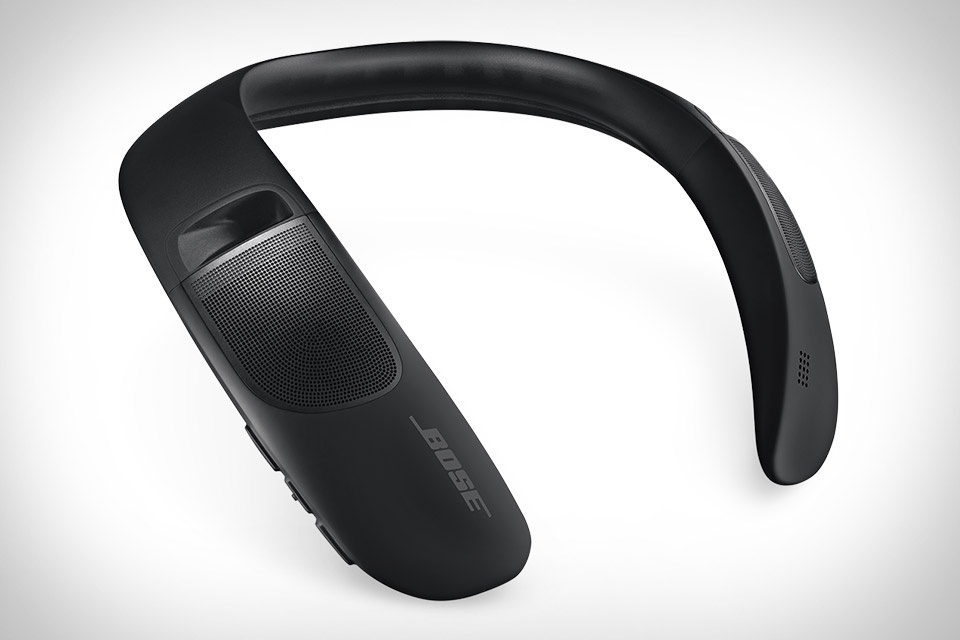
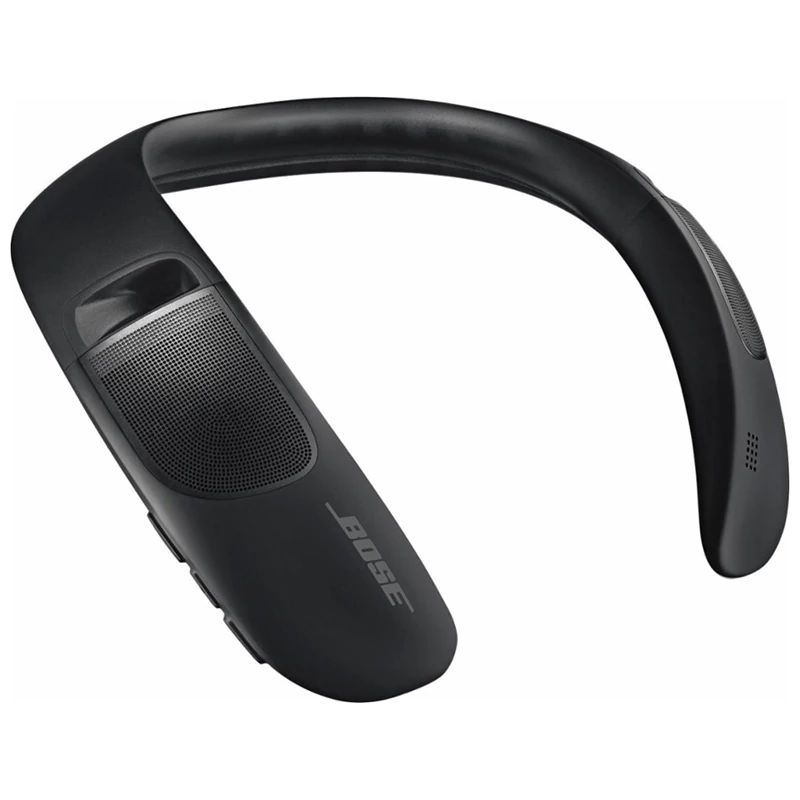
modified product images and seeds.sql

diff --git a/public/assets/css/style.css b/public/assets/css/style.css
@@ -49,4 +49,11 @@
     margin: 20px;
 }
 
+.card-img-top {
+    width: 250px;
+    height: 250px;
+    object-fit: scale-down;
+    margin: 0 auto;
+}
+
 /* old background color and text color - #6290C8 and #ffd3b6 */
